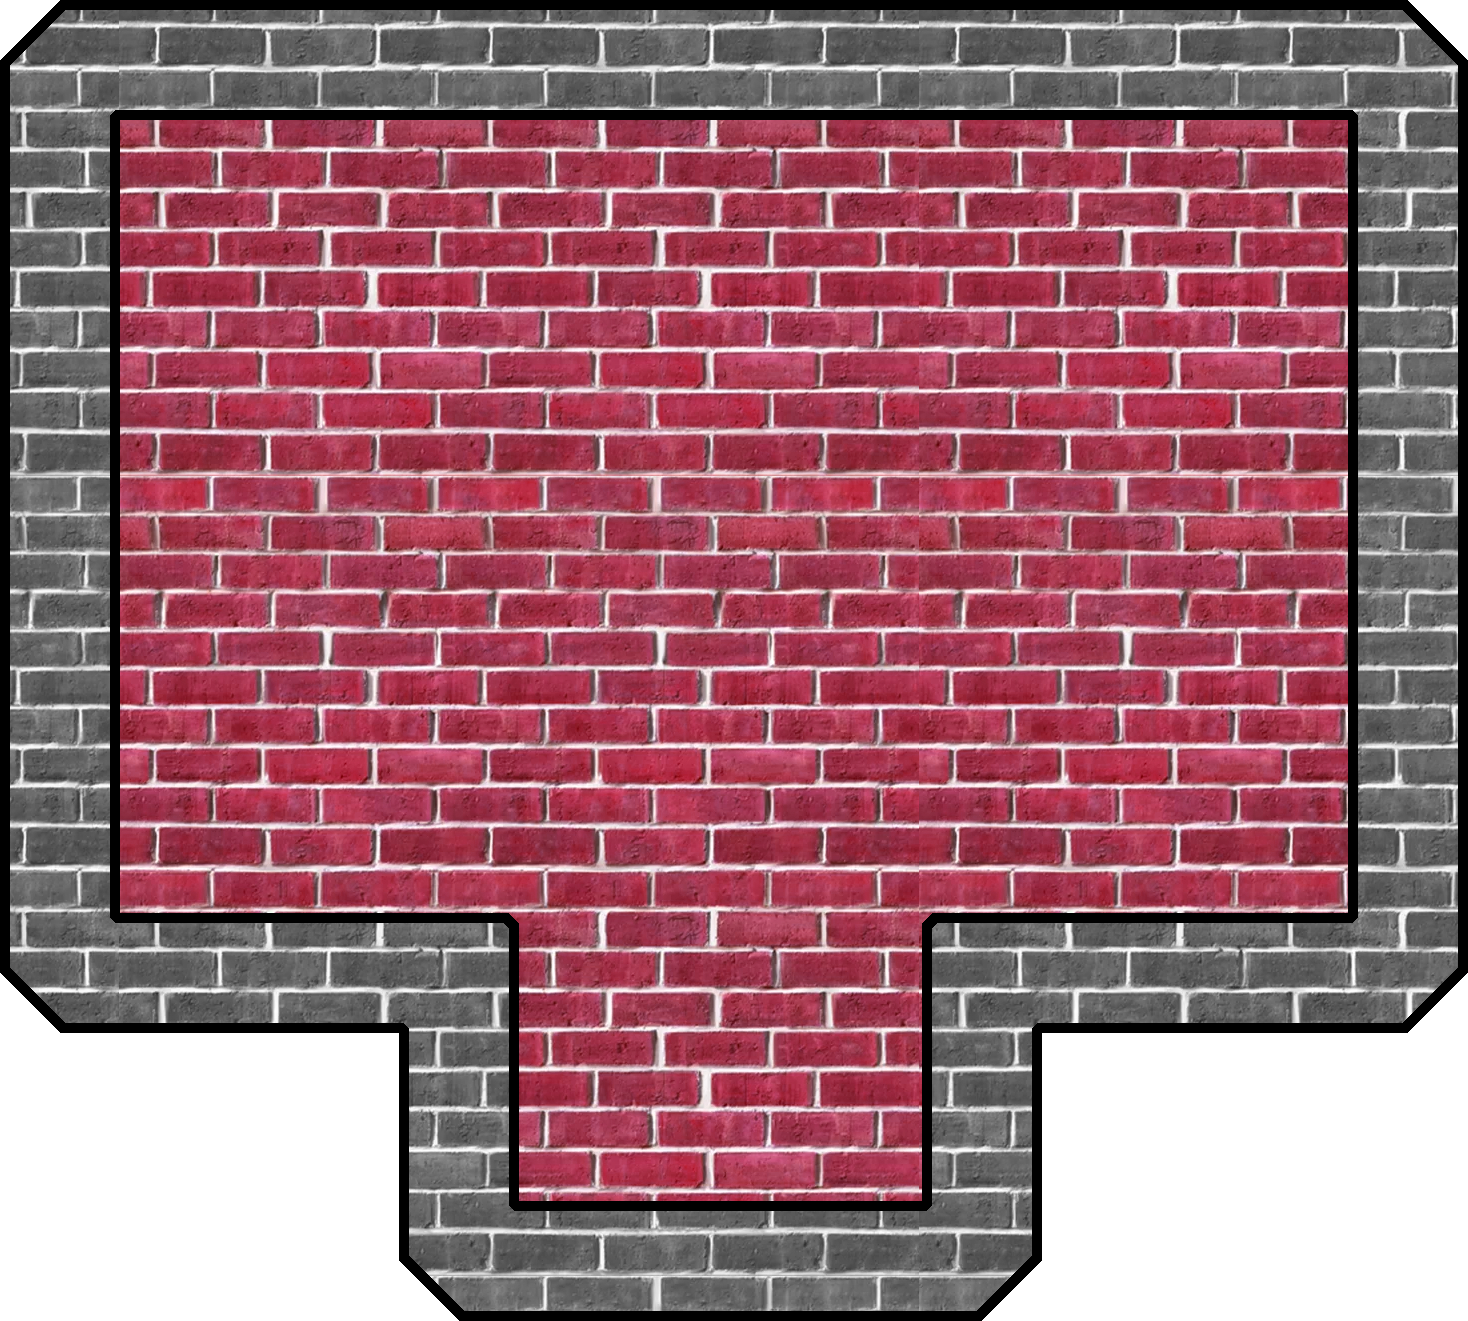
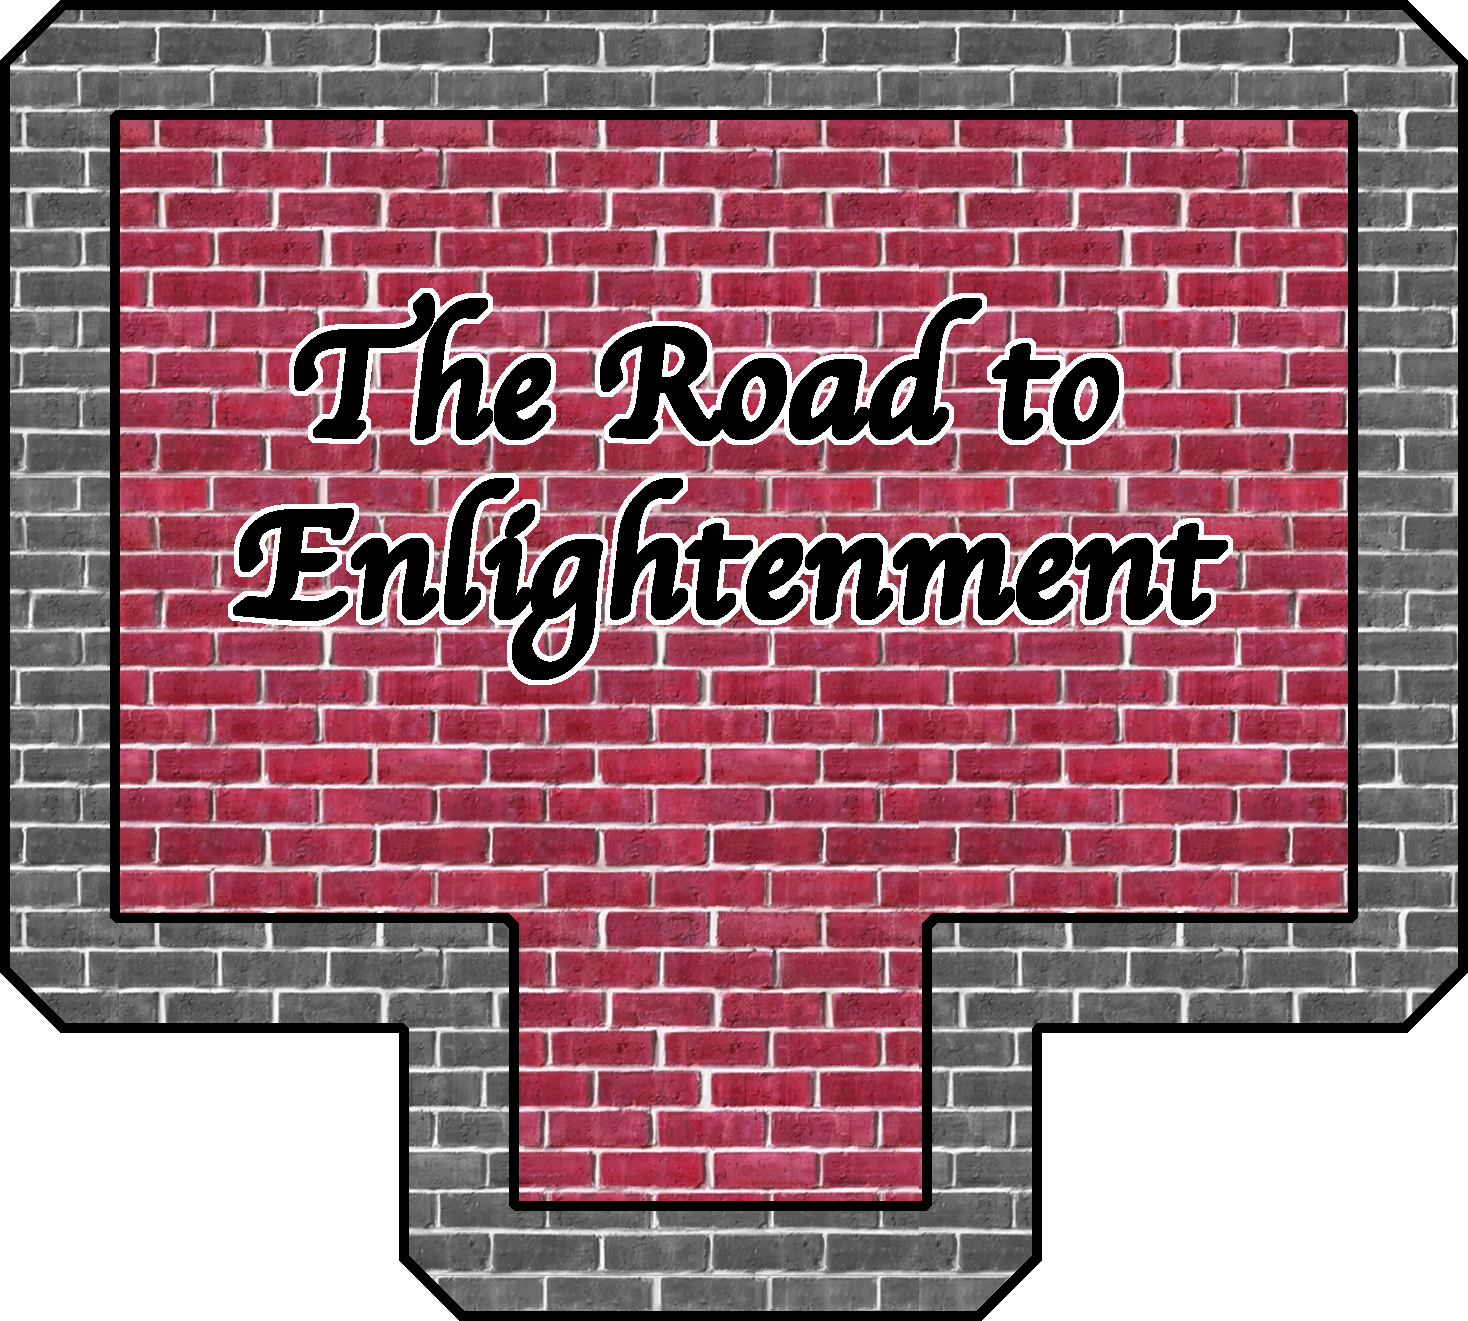
commit

Changed region(s): [[0.1533, 0.2173, 0.8583, 0.5276], [0.6744, 0.2483, 0.7663, 0.3414]]

diff --git a/zen-garden/cover-exp/index.html b/zen-garden/cover-exp/index.html
@@ -51,149 +51,20 @@
 <div class="page-wrapper">
 
 	<section class="intro" id="zen-intro">
-		<header role="banner">
-			<h1>CSS Zen Garden</h1>
-			<h2>The Beauty of <abbr title="Cascading Style Sheets">CSS</abbr> Design</h2>
-		</header>
-
-		<div class="summary" id="zen-summary" role="article">
-			<p>A demonstration of what can be accomplished through <abbr title="Cascading Style Sheets">CSS</abbr>-based design. Select any style sheet from the list to load it into this page.</p>
-			<p>Download the example <a href="/examples/index" title="This page's source HTML code, not to be modified.">html file</a> and <a href="/examples/style.css" title="This page's sample CSS, the file you may modify.">css file</a></p>
-		</div>
-
+	
+		<img src="images/first-block.png" id="under" width="650">
 		<div class="preamble" id="zen-preamble" role="article">
-            <img src="images/first-block.png">
+          
 			<h3>The Road to Enlightenment</h3>
 			<p>Littering a dark and dreary road lay the past relics of browser-specific tags, incompatible <abbr title="Document Object Model">DOM</abbr>s, broken <abbr title="Cascading Style Sheets">CSS</abbr> support, and abandoned browsers.</p>
 			<p>We must clear the mind of the past. Web enlightenment has been achieved thanks to the tireless efforts of folk like the <abbr title="World Wide Web Consortium">W3C</abbr>, <abbr title="Web Standards Project">WaSP</abbr>, and the major browser creators.</p>
             <p>The CSS Zen Garden invites you to relax and meditate on the important lessons of the masters. Begin to see with clarity. Learn to use the time-honored techniques in new and invigorating fashion. Become one with the web.</p>
-            <img src="images/first-block-cover.png">
+           
 		</div>
+	<img src="images/first-block-cover.png" id="cover" width="493">
 	</section>
 
-	<div class="main supporting" id="zen-supporting" role="main">
-		<div class="explanation" id="zen-explanation" role="article">
-			<h3>So What is This About?</h3>
-			<p>There is a continuing need to show the power of <abbr title="Cascading Style Sheets">CSS</abbr>. The Zen Garden aims to excite, inspire, and encourage participation. To begin, view some of the existing designs in the list. Clicking on any one will load the style sheet into this very page. The <abbr title="HyperText Markup Language">HTML</abbr> remains the same, the only thing that has changed is the external <abbr title="Cascading Style Sheets">CSS</abbr> file. Yes, really.</p>
-			<p><abbr title="Cascading Style Sheets">CSS</abbr> allows complete and total control over the style of a hypertext document. The only way this can be illustrated in a way that gets people excited is by demonstrating what it can truly be, once the reins are placed in the hands of those able to create beauty from structure. Designers and coders alike have contributed to the beauty of the web; we can always push it further.</p>
-		</div>
-
-		<div class="participation" id="zen-participation" role="article">
-			<h3>Participation</h3>
-			<p>Strong visual design has always been our focus. You are modifying this page, so strong <abbr title="Cascading Style Sheets">CSS</abbr> skills are necessary too, but the example files are commented well enough that even <abbr title="Cascading Style Sheets">CSS</abbr> novices can use them as starting points. Please see the <a href="http://www.mezzoblue.com/zengarden/resources/" title="A listing of CSS-related resources"><abbr title="Cascading Style Sheets">CSS</abbr> Resource Guide</a> for advanced tutorials and tips on working with <abbr title="Cascading Style Sheets">CSS</abbr>.</p>
-			<p>You may modify the style sheet in any way you wish, but not the <abbr title="HyperText Markup Language">HTML</abbr>. This may seem daunting at first if you&#8217;ve never worked this way before, but follow the listed links to learn more, and use the sample files as a guide.</p>
-			<p>Download the sample <a href="/examples/index" title="This page's source HTML code, not to be modified.">HTML</a> and <a href="/examples/style.css" title="This page's sample CSS, the file you may modify.">CSS</a> to work on a copy locally. Once you have completed your masterpiece (and please, don&#8217;t submit half-finished work) upload your <abbr title="Cascading Style Sheets">CSS</abbr> file to a web server under your control. <a href="http://www.mezzoblue.com/zengarden/submit/" title="Use the contact form to send us your CSS file">Send us a link</a> to an archive of that file and all associated assets, and if we choose to use it we will download it and place it on our server.</p>
-		</div>
-
-		<div class="benefits" id="zen-benefits" role="article">
-			<h3>Benefits</h3>
-			<p>Why participate? For recognition, inspiration, and a resource we can all refer to showing people how amazing <abbr title="Cascading Style Sheets">CSS</abbr> really can be. This site serves as equal parts inspiration for those working on the web today, learning tool for those who will be tomorrow, and gallery of future techniques we can all look forward to.</p>
-		</div>
-
-		<div class="requirements" id="zen-requirements" role="article">
-			<h3>Requirements</h3>
-			<p>Where possible, we would like to see mostly <abbr title="Cascading Style Sheets, levels 1 and 2">CSS 1 &amp; 2</abbr> usage. <abbr title="Cascading Style Sheets, levels 3 and 4">CSS 3 &amp; 4</abbr> should be limited to widely-supported elements only, or strong fallbacks should be provided. The CSS Zen Garden is about functional, practical <abbr title="Cascading Style Sheets">CSS</abbr> and not the latest bleeding-edge tricks viewable by 2% of the browsing public. The only real requirement we have is that your <abbr title="Cascading Style Sheets">CSS</abbr> validates.</p>
-			<p>Luckily, designing this way shows how well various browsers have implemented <abbr title="Cascading Style Sheets">CSS</abbr> by now. When sticking to the guidelines you should see fairly consistent results across most modern browsers. Due to the sheer number of user agents on the web these days &#8212; especially when you factor in mobile &#8212; pixel-perfect layouts may not be possible across every platform. That&#8217;s okay, but do test in as many as you can. Your design should work in at least IE9+ and the latest Chrome, Firefox, iOS and Android browsers (run by over 90% of the population).</p>
-			<p>We ask that you submit original artwork. Please respect copyright laws. Please keep objectionable material to a minimum, and try to incorporate unique and interesting visual themes to your work. We&#8217;re well past the point of needing another garden-related design.</p>
-			<p>This is a learning exercise as well as a demonstration. You retain full copyright on your graphics (with limited exceptions, see <a href="http://www.mezzoblue.com/zengarden/submit/guidelines/">submission guidelines</a>), but we ask you release your <abbr title="Cascading Style Sheets">CSS</abbr> under a Creative Commons license identical to the <a href="http://creativecommons.org/licenses/by-nc-sa/3.0/" title="View the Zen Garden's license information.">one on this site</a> so that others may learn from your work.</p>
-			<p role="contentinfo">By <a href="http://www.mezzoblue.com/">Dave Shea</a>. Bandwidth graciously donated by <a href="http://www.mediatemple.net/">mediatemple</a>. Now available: <a href="http://www.amazon.com/exec/obidos/ASIN/0321303474/mezzoblue-20/">Zen Garden, the book</a>.</p>
-		</div>
-
-		<footer>
-			<a href="http://validator.w3.org/check/referer" title="Check the validity of this site&#8217;s HTML" class="zen-validate-html">HTML</a>
-			<a href="http://jigsaw.w3.org/css-validator/check/referer" title="Check the validity of this site&#8217;s CSS" class="zen-validate-css">CSS</a>
-			<a href="http://creativecommons.org/licenses/by-nc-sa/3.0/" title="View the Creative Commons license of this site: Attribution-NonCommercial-ShareAlike." class="zen-license">CC</a>
-			<a href="http://mezzoblue.com/zengarden/faq/#aaa" title="Read about the accessibility of this site" class="zen-accessibility">A11y</a>
-			<a href="https://github.com/mezzoblue/csszengarden.com" title="Fork this site on Github" class="zen-github">GH</a>
-		</footer>
-
-	</div>
-
-
-	<aside class="sidebar" role="complementary">
-		<div class="wrapper">
-
-			<div class="design-selection" id="design-selection">
-				<h3 class="select">Select a Design:</h3>
-				<nav role="navigation">
-					<ul>
-					<li>
-						<a href="/221/" class="design-name">Mid Century Modern</a> by						<a href="http://andrewlohman.com/" class="designer-name">Andrew Lohman</a>
-					</li>					<li>
-						<a href="/220/" class="design-name">Garments</a> by						<a href="http://danielmall.com/" class="designer-name">Dan Mall</a>
-					</li>					<li>
-						<a href="/219/" class="design-name">Steel</a> by						<a href="http://steffen-knoeller.de" class="designer-name">Steffen Knoeller</a>
-					</li>					<li>
-						<a href="/218/" class="design-name">Apothecary</a> by						<a href="http://trentwalton.com" class="designer-name">Trent Walton</a>
-					</li>					<li>
-						<a href="/217/" class="design-name">Screen Filler</a> by						<a href="http://elliotjaystocks.com/" class="designer-name">Elliot Jay Stocks</a>
-					</li>					<li>
-						<a href="/216/" class="design-name">Fountain Kiss</a> by						<a href="http://jeremycarlson.com" class="designer-name">Jeremy Carlson</a>
-					</li>					<li>
-						<a href="/215/" class="design-name">A Robot Named Jimmy</a> by						<a href="http://meltmedia.com/" class="designer-name">meltmedia</a>
-					</li>					<li>
-						<a href="/214/" class="design-name">Verde Moderna</a> by						<a href="http://www.mezzoblue.com/" class="designer-name">Dave Shea</a>
-					</li>					</ul>
-				</nav>
-			</div>
-
-			<div class="design-archives" id="design-archives">
-				<h3 class="archives">Archives:</h3>
-				<nav role="navigation">
-					<ul>
-						<li class="next">
-							<a href="/214/page1">
-								Next Designs <span class="indicator">&rsaquo;</span>
-							</a>
-						</li>
-						<li class="viewall">
-							<a href="http://www.mezzoblue.com/zengarden/alldesigns/" title="View every submission to the Zen Garden.">
-								View All Designs							</a>
-						</li>
-					</ul>
-				</nav>
-			</div>
-
-			<div class="zen-resources" id="zen-resources">
-				<h3 class="resources">Resources:</h3>
-				<ul>
-					<li class="view-css">
-						<a href="style.css" title="View the source CSS file of the currently-viewed design.">
-							View This Design&#8217;s <abbr title="Cascading Style Sheets">CSS</abbr>						</a>
-					</li>
-					<li class="css-resources">
-						<a href="http://www.mezzoblue.com/zengarden/resources/" title="Links to great sites with information on using CSS.">
-							<abbr title="Cascading Style Sheets">CSS</abbr> Resources						</a>
-					</li>
-					<li class="zen-faq">
-						<a href="http://www.mezzoblue.com/zengarden/faq/" title="A list of Frequently Asked Questions about the Zen Garden.">
-							<abbr title="Frequently Asked Questions">FAQ</abbr>						</a>
-					</li>
-					<li class="zen-submit">
-						<a href="http://www.mezzoblue.com/zengarden/submit/" title="Send in your own CSS file.">
-							Submit a Design						</a>
-					</li>
-					<li class="zen-translations">
-						<a href="http://www.mezzoblue.com/zengarden/translations/" title="View translated versions of this page.">
-							Translations						</a>
-					</li>
-				</ul>
-			</div>
-		</div>
-	</aside>
-
-
-</div>
-
-<!--
-
-	These superfluous divs/spans were originally provided as catch-alls to add extra imagery.
-	These days we have full ::before and ::after support, favour using those instead.
-	These only remain for historical design compatibility. They might go away one day.
-		
--->
-<div class="extra1" role="presentation"></div><div class="extra2" role="presentation"></div><div class="extra3" role="presentation"></div>
-<div class="extra4" role="presentation"></div><div class="extra5" role="presentation"></div><div class="extra6" role="presentation"></div>
+	
 
 </body>
 </html>

diff --git a/zen-garden/cover-exp/style.css b/zen-garden/cover-exp/style.css
@@ -1,0 +1,32 @@
+.preamble{
+        font-family: Arial, Helvetica, sans-serif;
+        font-size: 16px;
+        width: 400px;
+        text-align:justify;
+        position: absolute flex;
+        margin-top: -600px;
+        margin-bottom: -250px;
+        margin-left: 180px;
+        line-height: 1em;
+}
+p{
+    margin-bottom: -10px;
+}
+h3{
+    margin-bottom: -10px;
+    text-align: center;
+}
+p:nth-child(4){
+    width: 150px;
+    text-align: center;
+    margin-left: 120px;
+}
+#cover{
+    position: absolute;
+    margin-top: -141px;
+    margin-left: 133px;
+}
+#cover:hover{
+   width: 0px;
+   transition: 3s;
+}
